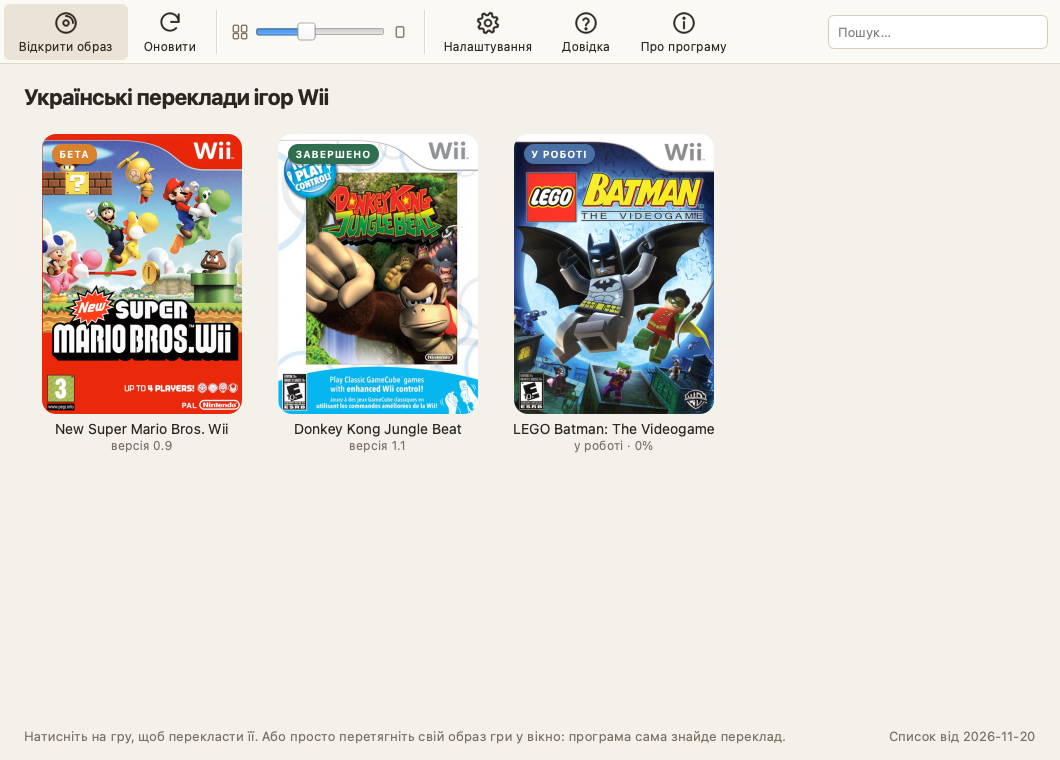
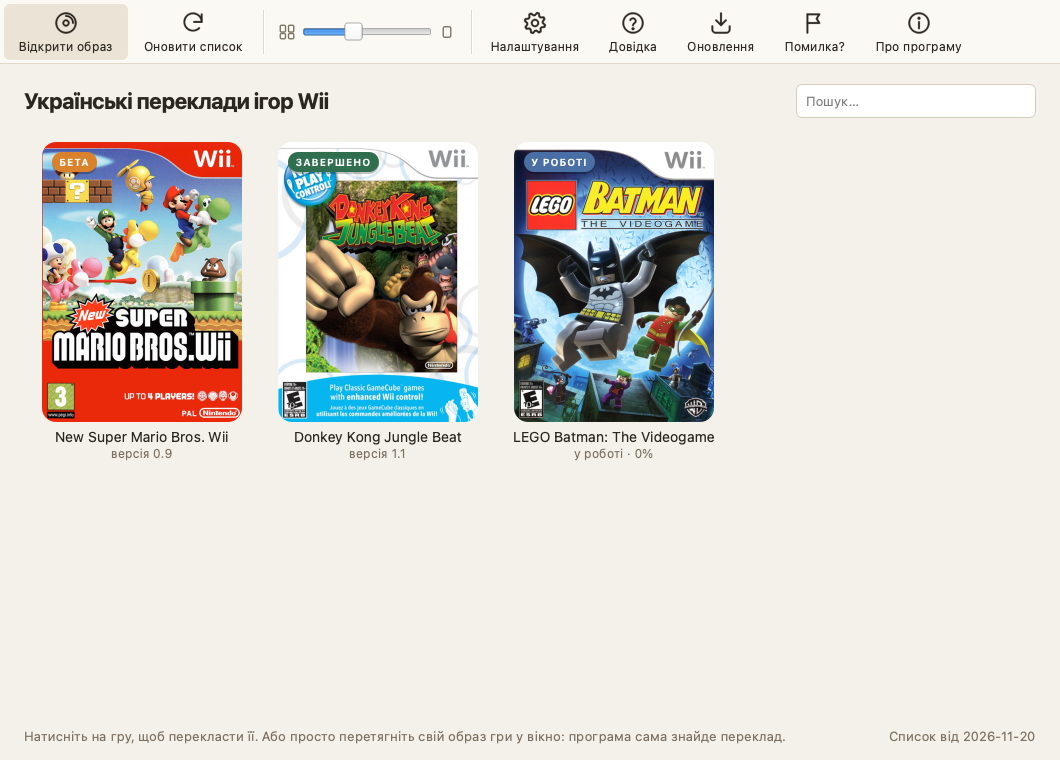
Перевірка оновлень програми (GitHub Releases) з банером, кнопка «Помилка?» (GitHub Issues або лист), пошук у рядку заголовка

diff --git a/app.py b/app.py
@@ -72,6 +72,7 @@ from PySide6.QtWidgets import (QApplication, QStyle, QStyledItemDelegate, QButto
 from uapatch import PatchError, read_patch
 from uapatch.apply import default_output, disc_id, patch_image, patch_riivolution
 from uapatch.catalog import Catalog, cache_dir, portable_dir
+from uapatch import update
 
 import texts
 
@@ -105,6 +106,8 @@ QLabel#wiptitle { font-size: 20px; font-weight: 700; color: #2b2620; }
 QLabel#pct { font-size: 15px; font-weight: 700; color: #4a6fa5; min-width: 44px; }
 QProgressBar#wipbar { background: #e7e0d2; border-radius: 6px; height: 12px; }
 QProgressBar#wipbar::chunk { background: #4a6fa5; border-radius: 6px; }
+QFrame#banner { background: #e3eee6; border: 1px solid #b9d3c2; border-radius: 10px; }
+QLabel#bannertext { color: #1f4f37; font-size: 13px; }
 QLabel#title { font-size: 26px; font-weight: 700; color: #2b2620; }
 QLabel#meta { color: #7a6f60; font-size: 13px; }
 QLabel#h { font-size: 13px; font-weight: 700; color: #7a6f60; letter-spacing: 1px; }
@@ -141,6 +144,8 @@ ICONS = {
     'help': '<circle cx="12" cy="12" r="9"/><path d="M9.5 9.3a2.6 2.6 0 0 1 5 .9c0 1.8-2.5 2.3-2.5 4"/>'
             '<circle cx="12" cy="17.3" r=".6" fill="{c}"/>',
     'about': '<circle cx="12" cy="12" r="9"/><path d="M12 11v6"/><circle cx="12" cy="7.6" r=".6" fill="{c}"/>',
+    'update': '<path d="M12 3v11"/><path d="M7.5 9.5L12 14l4.5-4.5"/><path d="M4 15v3a3 3 0 0 0 3 3h10a3 3 0 0 0 3-3v-3"/>',
+    'bug': '<path d="M5 21V4"/><path d="M5 4h11l-2.5 4L16 12H5"/>',
     'one': '<rect x="7" y="5" width="10" height="14" rx="2"/>',
     'many': '<rect x="3" y="3" width="7" height="9" rx="1.5"/><rect x="14" y="3" width="7" height="9" rx="1.5"/>'
            '<rect x="3" y="14" width="7" height="7" rx="1.5"/><rect x="14" y="14" width="7" height="7" rx="1.5"/>',
@@ -378,6 +383,8 @@ class Window(QMainWindow):
         self.pages.currentChanged.connect(self.on_page)
         self.on_page(0)
         self.load_catalog()
+        self.release = None
+        start(self, lambda w: update.latest_release(), self.on_release, lambda msg: None)
 
     def int_setting(self, key, default, lo, hi):
         try:
@@ -409,7 +416,7 @@ class Window(QMainWindow):
 
         self.act_open = act('open', 'Відкрити образ', self.pick_image,
                             'Вибрати образ гри: програма сама знайде для нього переклад')
-        self.act_reload = act('reload', 'Оновити', self.load_catalog, 'Завантажити свіжий список перекладів')
+        self.act_reload = act('reload', 'Оновити список', self.load_catalog, 'Завантажити свіжий список перекладів')
         bar.addSeparator()
 
         size = QWidget()
@@ -429,31 +436,21 @@ class Window(QMainWindow):
         big = QLabel()
         big.setPixmap(icon('one', '#7a6f60', 36).pixmap(18, 18))
         sl.addWidget(big)
+        size.setSizePolicy(QSizePolicy.Fixed, QSizePolicy.Preferred)
         self.size_box = bar.addWidget(size)
         bar.addSeparator()
 
         act('settings', 'Налаштування', self.open_settings, 'Куди зберігати результат, формат, кеш')
         act('help', 'Довідка', lambda: self.show_text('Довідка', texts.HELP), 'Як отримати образ і як грати')
+        self.act_update = act('update', 'Оновлення', lambda: self.check_update(True),
+                              'Перевірити, чи вийшла нова версія програми')
+        act('bug', 'Помилка?', self.report_bug, 'Повідомити про помилку')
         act('about', 'Про програму', self.show_about, 'Версія та ліцензії')
 
-        spacer = QWidget()
-        spacer.setSizePolicy(QSizePolicy.Expanding, QSizePolicy.Preferred)
-        bar.addWidget(spacer)
-        self.search = QLineEdit()
-        self.search.setPlaceholderText('Пошук…')
-        self.search.setClearButtonEnabled(True)
-        self.search.setFixedWidth(220)
-        self.search.textChanged.connect(self.filter_shelf)
-        box = QWidget()
-        bl = QHBoxLayout(box)
-        bl.setContentsMargins(0, 0, 8, 0)
-        bl.addWidget(self.search)
-        self.search_box = bar.addWidget(box)
 
     def on_page(self, index):
         """The shelf-only tools are hidden on a game page; nothing changes the catalog mid-patch."""
         self.size_box.setVisible(index == 0)
-        self.search_box.setVisible(index == 0)
 
     def set_cover_width(self, w):
         self.cover_w = w
@@ -478,7 +475,32 @@ class Window(QMainWindow):
         lay = QVBoxLayout(page)
         lay.setContentsMargins(24, 20, 24, 16)
         lay.setSpacing(12)
-        lay.addWidget(QLabel('Українські переклади ігор Wii', objectName='apptitle'))
+        top = QHBoxLayout()
+        top.addWidget(QLabel('Українські переклади ігор Wii', objectName='apptitle'))
+        top.addStretch(1)
+        self.search = QLineEdit()
+        self.search.setPlaceholderText('Пошук…')
+        self.search.setClearButtonEnabled(True)
+        self.search.setFixedWidth(240)
+        self.search.textChanged.connect(self.filter_shelf)
+        top.addWidget(self.search)
+        lay.addLayout(top)
+
+        self.banner = QFrame(objectName='banner')
+        bl = QHBoxLayout(self.banner)
+        bl.setContentsMargins(14, 10, 10, 10)
+        self.banner_text = QLabel('', objectName='bannertext')
+        self.banner_text.setWordWrap(True)
+        bl.addWidget(self.banner_text, 1)
+        get = QPushButton('Завантажити', objectName='go')
+        get.clicked.connect(self.open_release)
+        bl.addWidget(get)
+        hide = QPushButton('✕', objectName='back')
+        hide.setToolTip('Сховати')
+        hide.clicked.connect(self.banner.hide)
+        bl.addWidget(hide)
+        self.banner.hide()
+        lay.addWidget(self.banner)
 
         self.shelf = QListWidget(objectName='shelf')
         self.shelf.setViewMode(QListView.IconMode)
@@ -803,6 +825,80 @@ class Window(QMainWindow):
         ok.clicked.connect(d.accept)
         lay.addWidget(ok, 0, Qt.AlignCenter)
         d.exec()
+
+    # -------------------------------------------------------------- program updates
+
+    def on_release(self, rel, manual=False):
+        self.release = rel
+        newer = bool(rel) and update.is_newer(rel['version'], VERSION)
+        if newer:
+            self.banner_text.setText(f'<b>Вийшла нова версія програми: {esc(rel["version"])}</b> '
+                                     f'(у вас {VERSION}). Переклади оновлюються й без цього, '
+                                     'а нова версія програми додає можливості й виправлення.')
+            self.banner.show()
+            self.act_update.setText('Є оновлення!')
+        if not manual:
+            return
+        if newer:
+            notes = esc(rel['notes'] or '—').replace('\n', '<br>')
+            box = QMessageBox(self)
+            box.setWindowTitle(APP)
+            box.setTextFormat(Qt.RichText)
+            box.setText(f'<b>Вийшла версія {esc(rel["version"])}</b>'
+                        f'{" від " + esc(nice_date(rel["date"])) if rel["date"] else ""}. У вас {VERSION}.'
+                        f'<br><br>{notes}<br><br>' + texts.UPDATE_HOWTO)
+            get = box.addButton('Відкрити сторінку завантаження', QMessageBox.AcceptRole)
+            box.addButton('Пізніше', QMessageBox.RejectRole)
+            box.exec()
+            if box.clickedButton() is get:
+                self.open_release()
+        elif rel:
+            QMessageBox.information(self, APP, f'У вас остання версія програми: {VERSION}.')
+        else:
+            QMessageBox.information(self, APP, f'У вас версія {VERSION}. Новіших випусків поки немає.')
+
+    def check_update(self, manual=True):
+        self.act_update.setEnabled(False)
+
+        def done(rel):
+            self.act_update.setEnabled(True)
+            self.on_release(rel, manual)
+
+        def failed(msg):
+            self.act_update.setEnabled(True)
+            if manual:
+                QMessageBox.warning(self, APP, 'Не вдалося перевірити оновлення.\n\n' + msg)
+        start(self, lambda w: update.latest_release(), done, failed)
+
+    def open_release(self):
+        QDesktopServices.openUrl(QUrl((self.release or {}).get('url') or update.RELEASES))
+
+    def report_bug(self):
+        import platform
+        from urllib.parse import quote
+        g = self.current_game() if self.pages.currentIndex() == 1 else None
+        game = f'{g["title"]}' + (f' ({self.image_id})' if self.image_id else '') if g else ''
+        body = texts.BUG_TEMPLATE.format(version=VERSION, system=platform.platform(terse=True), game=game or '—')
+        issue = (f'{update.ISSUES}/new?title={quote("Помилка: ")}&body={quote(body)}')
+        box = QMessageBox(self)
+        box.setWindowTitle('Повідомити про помилку')
+        box.setTextFormat(Qt.RichText)
+        box.setText(texts.BUG_HOWTO.format(log=esc(LOG)))
+        gh = box.addButton('Написати на GitHub', QMessageBox.AcceptRole)
+        mail_url = self.contact_link(None)
+        mail = box.addButton('Написати листом', QMessageBox.ActionRole) if mail_url else None
+        folder = box.addButton('Відкрити папку з журналом', QMessageBox.ActionRole)
+        box.addButton('Закрити', QMessageBox.RejectRole)
+        box.exec()
+        if box.clickedButton() is gh:
+            QDesktopServices.openUrl(QUrl(issue))
+        elif mail and box.clickedButton() is mail:
+            url = QUrl(mail_url)
+            if url.scheme() == 'mailto':
+                url = QUrl(f'{mail_url}?subject={quote("Press Start UA Launcher: помилка")}&body={quote(body)}')
+            QDesktopServices.openUrl(url)
+        elif box.clickedButton() is folder:
+            QDesktopServices.openUrl(QUrl.fromLocalFile(os.path.dirname(LOG)))
 
     def show_about(self):
         self.show_text('Про програму', texts.about(APP, VERSION), 560, 520)

diff --git a/uapatch/update.py b/uapatch/update.py
@@ -1,0 +1,45 @@
+"""Is there a newer version of the launcher? Asks GitHub for the latest release of the repository.
+
+A release is made by pushing a tag like v0.2 (see .github/workflows/windows.yml); its zip is the
+portable Windows build. Only the version and the page link are read: the program never downloads
+or runs code by itself, the user downloads the new zip from the release page.
+"""
+import json, re, urllib.request
+
+from .core import PatchError
+
+REPO = 'press-start-ua/launcher'
+LATEST = f'https://api.github.com/repos/{REPO}/releases/latest'
+RELEASES = f'https://github.com/{REPO}/releases'
+ISSUES = f'https://github.com/{REPO}/issues'
+AGENT = 'PressStartUA/1'  # generic client name, nothing about the user
+TIMEOUT = 15
+
+
+def parse_version(text):
+    """'v0.10.2' -> (0, 10, 2); text without digits -> ()."""
+    return tuple(int(n) for n in re.findall(r'\d+', text or ''))
+
+
+def is_newer(latest, current):
+    return parse_version(latest) > parse_version(current)
+
+
+def latest_release():
+    """-> {'version', 'url', 'notes', 'date'} of the newest published release, or None if the
+    repository has none yet. Raises PatchError when GitHub cannot be reached."""
+    req = urllib.request.Request(LATEST, headers={'User-Agent': AGENT, 'Accept': 'application/vnd.github+json'})
+    try:
+        with urllib.request.urlopen(req, timeout=TIMEOUT) as f:
+            data = json.loads(f.read().decode('utf-8'))
+    except urllib.error.HTTPError as e:
+        if e.code == 404:  # no release yet
+            return None
+        raise PatchError(f'GitHub відповів помилкою {e.code}.')
+    except OSError as e:
+        raise PatchError(f'Не вдалося зв\'язатися з GitHub: {e}')
+    url = data.get('html_url') or RELEASES
+    if not url.startswith('https://github.com/'):
+        url = RELEASES
+    return dict(version=(data.get('tag_name') or '').lstrip('vV'), url=url,
+                notes=(data.get('body') or '').strip(), date=(data.get('published_at') or '')[:10])
